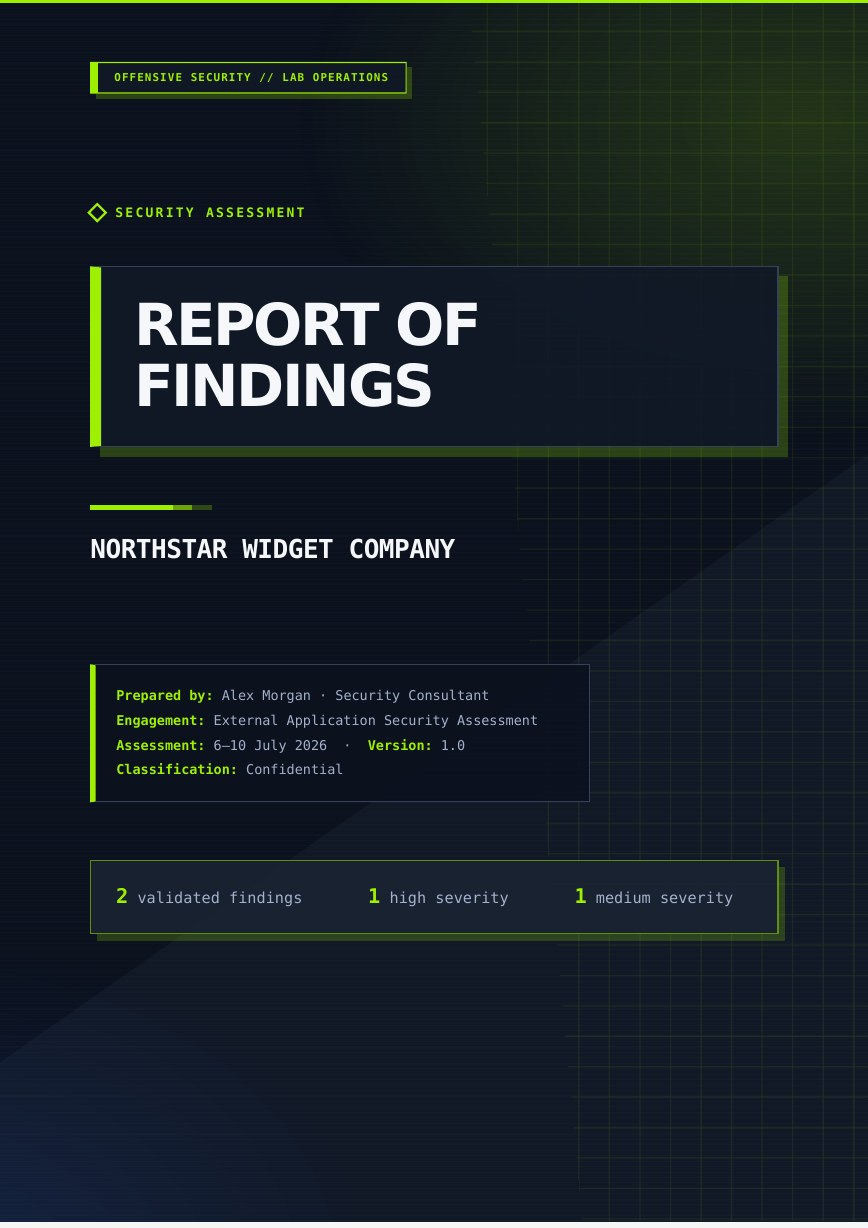
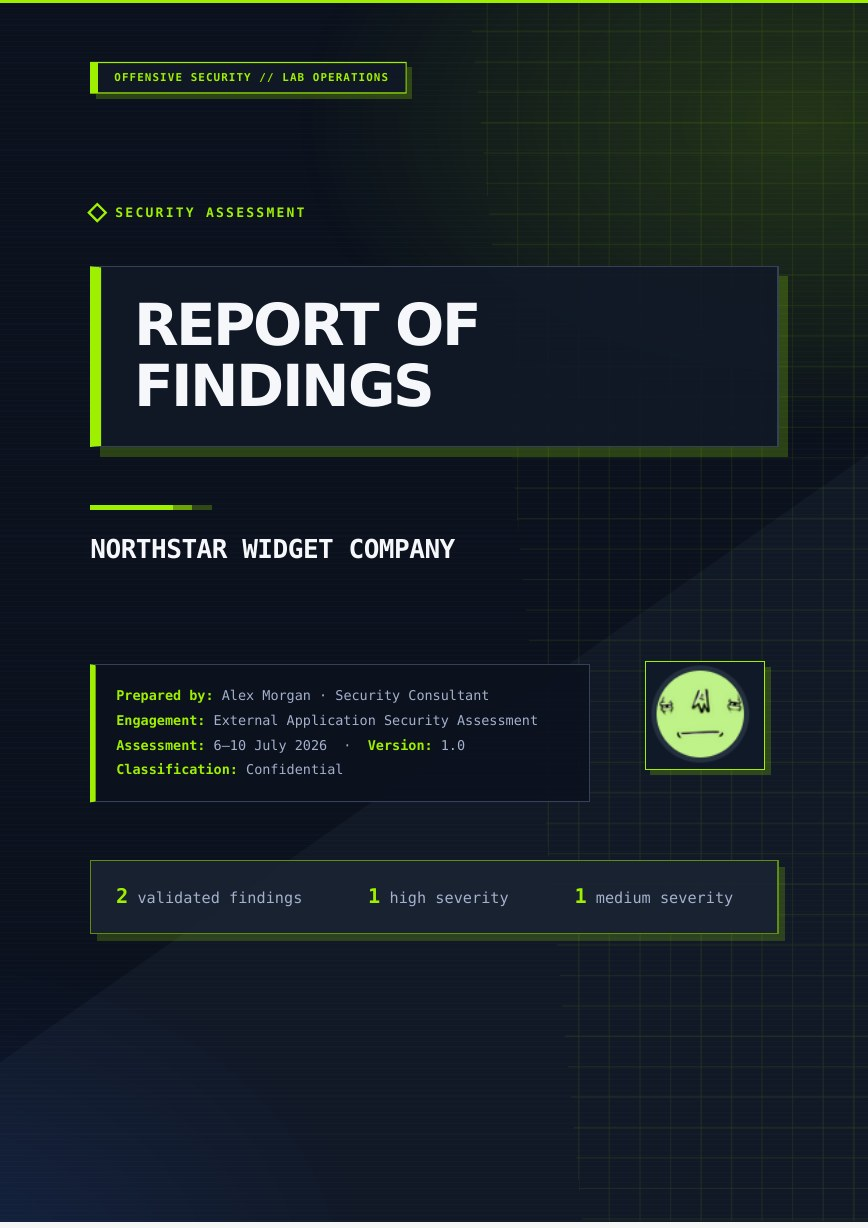
Add operator signature to HTB theme

Changed region(s): [[0.7154, 0.5261, 0.9021, 0.6498]]

diff --git a/templates/themes/htb.css b/templates/themes/htb.css
@@ -207,6 +207,7 @@ h1.cover-title {
 }
 
 .cover-meta {
+  position: relative;
   width: 110mm;
   padding: 4.5mm 5mm;
   border: 1px solid #344158;
@@ -219,6 +220,21 @@ h1.cover-title {
 }
 
 .cover-meta strong { color: var(--htb-green); }
+
+.cover-meta::after {
+  position: absolute;
+  top: -1mm;
+  right: -43mm;
+  width: 29mm;
+  height: 26mm;
+  border: 1px solid var(--htb-green);
+  background:
+    url("assets/ltnbobface.png") center / contain no-repeat,
+    var(--htb-slate);
+  box-shadow: 5px 5px 0 rgba(159,239,0,.22);
+  content: "";
+  image-rendering: pixelated;
+}
 
 .cover-metrics {
   border: 1px solid rgba(159,239,0,.52);

diff --git a/templates/themes/README.md b/templates/themes/README.md
@@ -13,6 +13,8 @@ standard ReportKit document structure.
   magenta, hard-edged warning panels, scan lines, and glitch-like accents.
 - `htb.css` — Hack The Box-inspired operator styling with near-black lab
   consoles, electric green status rails, terminal grids, and sharp brackets.
+  Its cover includes the project author's `assets/ltnbobface.png` operator
+  signature as a small Easter egg.
 
 ## Render a themed report
 
